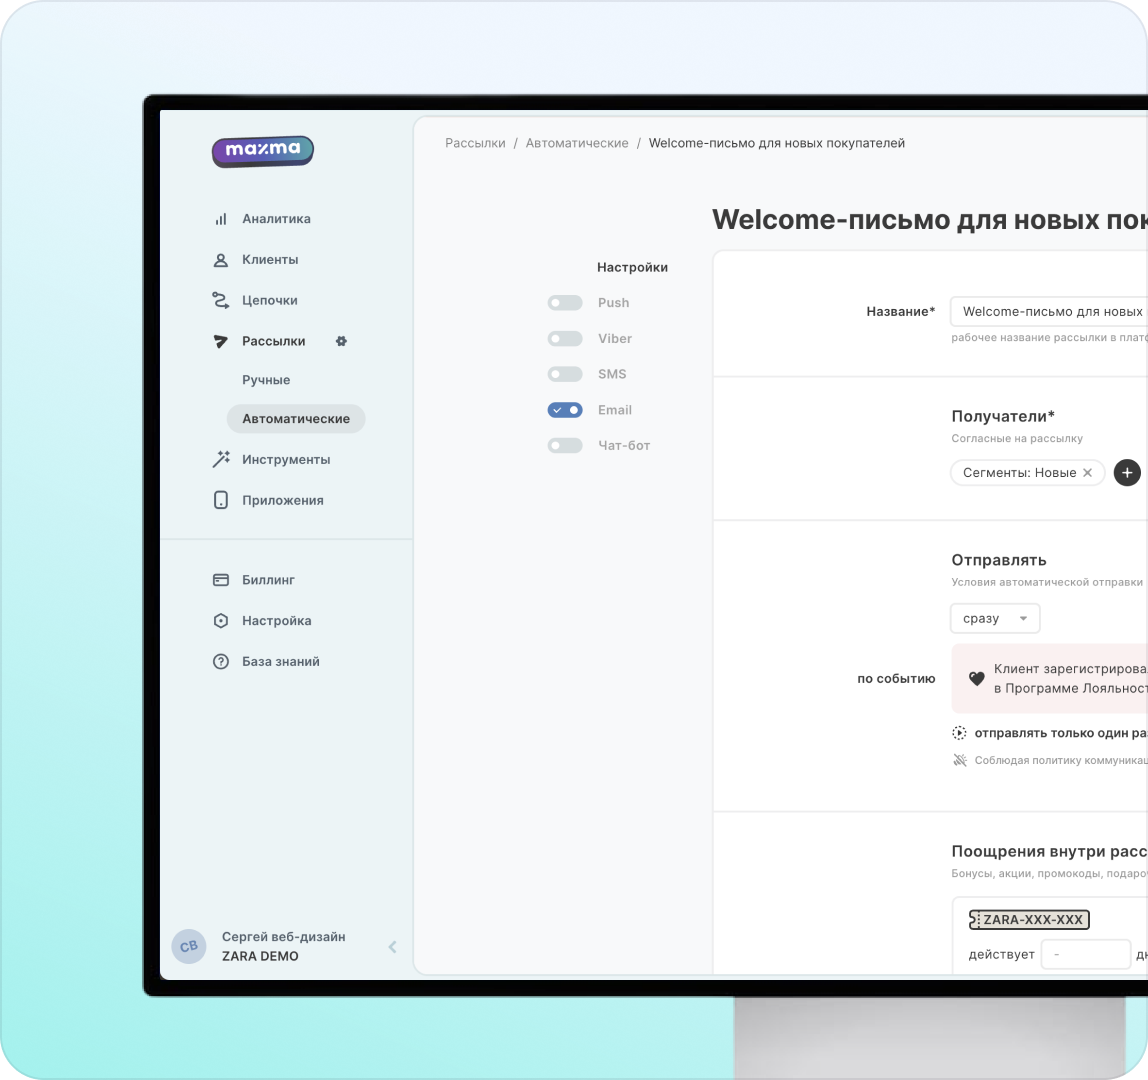
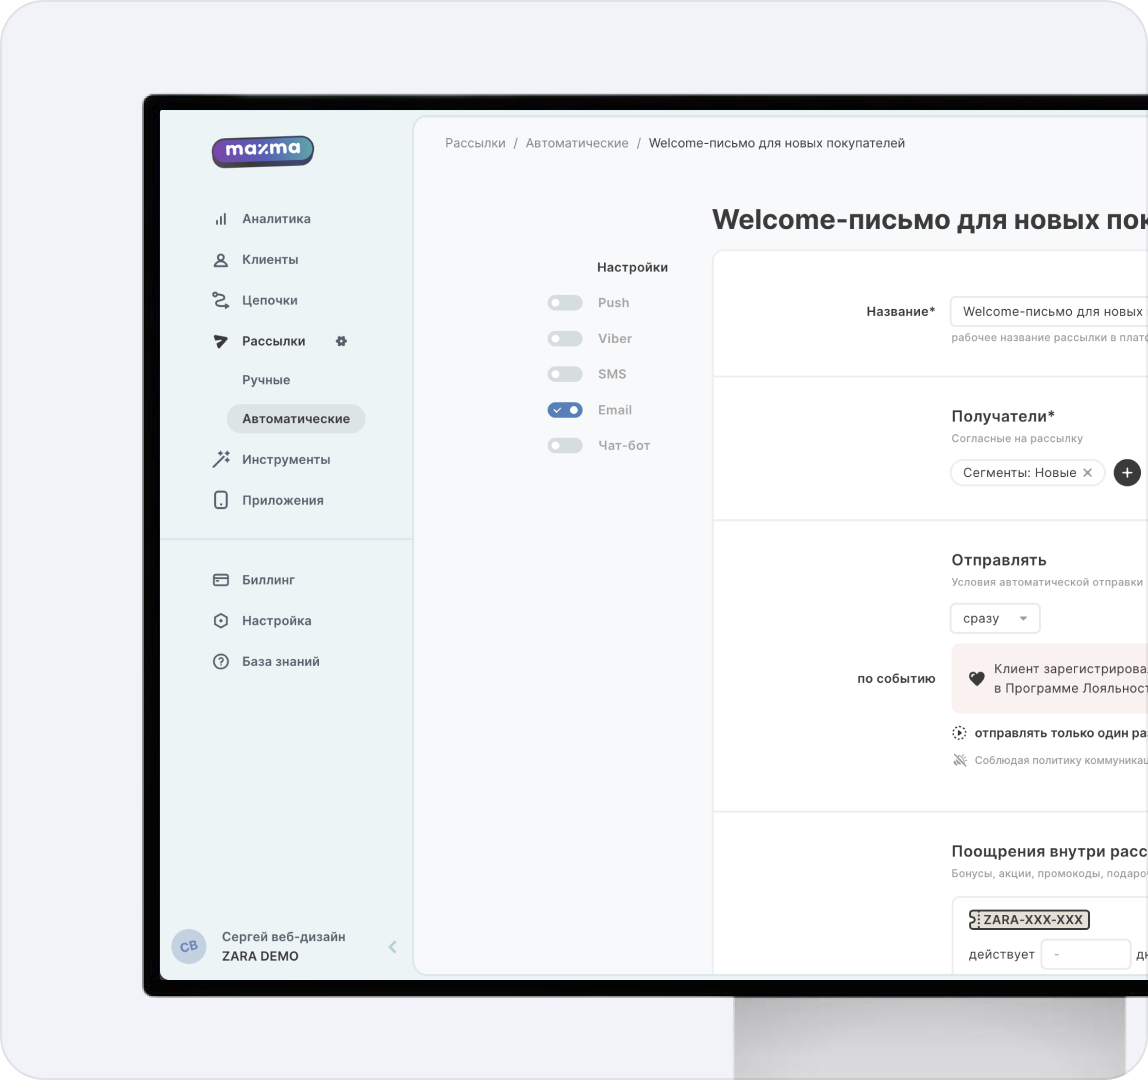
Sync «Рассылки» with the updated mockup
New hero laptop with the mailing list on screen (glare layer dropped),
«С модулем Рассылки вы растите» heading, grey trigger and segment cards,
refreshed Telegram and Push cards, the lead form alone and centred, footer
moved up to match.

Changed region(s): [[0.0, 0.2444, 0.6402, 1.0], [0.9756, 0.9167, 1.0, 1.0]]

diff --git a/css/communications.css b/css/communications.css
@@ -2,21 +2,19 @@
    MAXMA — «Рассылки» (module page), loaded after styles.css
    Figma: J5O8dq0z1hB7ba68lMvQYn · frame «Рассылки — UI / 1440» 20:1467
    Same fixed 1440 stage as the main page: every block sits at its Figma
-   y inside the frame. The mockup frame crops the footer; the stage runs
-   on to show it whole.
+   y inside the frame. The mockup frame (6506 tall) crops the footer; the
+   stage runs on to show it whole.
    ===================================================================== */
 
-.stage--comm{height:7004px}
+.stage--comm{height:6840px}
 
 /* =====================================================================
-   HERO · 20:1480
+   HERO · 75:1906
    ===================================================================== */
 .chero{left:0;top:80px;width:1440px;height:795px}
 .chero>*{position:absolute}
 /* the green card runs on under the metrics, fading into the page */
 .chero__bg{left:20px;top:0;width:1400px;height:1148px;border-radius:24px;background:linear-gradient(180deg,#e1efe1 0%,#fff 100%)}
-.chero__glare{left:20px;top:0;width:1420px;height:886px;border-radius:24px;overflow:hidden;mix-blend-mode:overlay;pointer-events:none}
-.chero__glare img{position:absolute;left:-.5%;top:-14.8%;width:126.11%;height:114.8%;max-width:none}
 .chero__icon{left:80px;top:194px;width:71px;height:62px}
 
 .chero__copy{left:80px;top:288px;width:640px;display:flex;flex-direction:column;align-items:flex-start;gap:32px}
@@ -29,15 +27,16 @@
 .chero__sub{width:650px;font-size:16px;line-height:22px;opacity:.6}
 .chero__cta{width:266px;height:56px;padding:0;border:0;border-radius:100px}
 
-/* laptop · image 614, cropped by its box; the dashboard sits on its screen */
-.chero__laptop{left:620px;top:7px;width:800px;height:879px;overflow:hidden;pointer-events:none}
-.chero__laptop img{position:absolute;left:-20.54%;top:0;width:168.68%;height:100%;max-width:none}
+/* laptop · image 646, cropped by its box at the card edge; the mailing
+   list sits on its screen */
+.chero__laptop{left:687px;top:103px;width:733px;height:678px;overflow:hidden;pointer-events:none}
+.chero__laptop img{position:absolute;left:0;top:-.01%;width:152.11%;height:100.02%;max-width:none}
 .chero__screen{
-  left:781px;top:168px;width:639px;height:461px;overflow:hidden;
-  border:1px solid rgba(25,9,40,.1);border-radius:11px 0 0 1px;
-  box-shadow:0 49.458px 65.284px rgba(0,0,0,.03);
+  left:801px;top:128px;width:619px;height:577px;overflow:hidden;
+  border-radius:10px 0 0 1.249px;
+  box-shadow:0 61.764px 81.528px rgba(0,0,0,.03);
 }
-.chero__screen img{position:absolute;left:-.1%;top:-.68%;width:128.71%;height:119.1%;max-width:none}
+.chero__screen img{position:absolute;left:-.2%;top:-.17%;width:149.29%;height:100.17%;max-width:none}
 
 /* =====================================================================
    METRICS · 20:1492
@@ -75,8 +74,10 @@
 .csteps__head{display:flex;flex-direction:column;gap:16px;color:var(--ink)}
 .csteps__sub{width:426px;font-size:15px;line-height:22px;opacity:.6}
 .csteps__list--seg{width:539px}
-.csteps__card{position:relative;flex:1 1 0;min-width:0;height:540px}
-.csteps__card--seg{background:linear-gradient(0deg,#edf1ff 0%,#e1c9ff 100%)}
+/* one-line descriptions here: the open step keeps a single 22px line, so
+   the lists sit where the mockup has them (247px into the column) */
+.csteps .why-item.is-active .why-item__desc{height:22px}
+.csteps__card{position:relative;flex:1 1 0;min-width:0;height:540px;background:var(--surface)}
 
 /* =====================================================================
    CASES · 59:938 — the main page's carousel, without the filter tabs
@@ -111,23 +112,13 @@
 .cbundle__btn:hover img{transform:translate(2px,-2px)}
 
 /* =====================================================================
-   LEAD FORM · 59:1054
-   Two equal columns: what happens next, and the main page's form.
-   The mockup sets the left column in white / #d5d5d5 on the white page
-   (copied over from a dark block), so the heading doesn't show; here it
-   is in the page ink at the same sizes.
+   LEAD FORM · 59:1054 — the main page's form, centred, 70px under the
+   CDP block (72:802 stacks block, form and footer 70px apart)
    ===================================================================== */
-.clead{left:0;top:5615.05px;width:1440px;height:526.34px;padding:0 138px;display:flex;align-items:center;gap:60px}
-.clead .lead__form{position:static;flex:1 1 0;min-width:0;width:auto}
-
-.clead__next{flex:1 1 0;min-width:0;display:flex;flex-direction:column;gap:20px;color:var(--ink)}
-.clead__next-title{font-weight:500;font-size:30px;line-height:1.3}
-.clead__steps{margin:0;padding:0;list-style:none;display:flex;flex-direction:column;gap:20px}
-.clead__steps li{display:flex;align-items:flex-start;gap:14px;font-size:16px;line-height:1.4}
-.clead__steps li>span:last-child{flex:1;min-width:0;padding-top:4px;opacity:.6}
-.clead__num{width:30px;height:30px;flex:none;display:flex;align-items:center;justify-content:center;border-radius:100px;background:var(--surface);font-weight:500;font-size:14px;line-height:1.3}
+.clead{left:0;top:5525.05px;width:1440px;display:flex;justify-content:center}
+.clead .lead__form{position:static;width:456px}
 
 /* =====================================================================
    FOOTER · 59:1115
    ===================================================================== */
-.ftr--comm{top:6301.39px}
+.ftr--comm{top:6137.39px}

diff --git a/communications.html b/communications.html
@@ -97,25 +97,24 @@
 <div class="page">
 <div class="stage stage--comm" id="stage">
 
-  <!-- ============ HERO · 20:1480 ============ -->
-  <section class="chero" data-node="20:1480">
-    <div class="chero__bg" data-node="20:1481"></div>
-    <div class="chero__glare" data-node="20:1482"><img src="assets/img/comm-hero-glare.jpg" alt=""></div>
-    <img class="chero__icon" src="assets/img/icon-megaphone.png" alt="" width="71" height="62" data-node="20:1483">
-    <div class="chero__copy" data-node="20:1484">
+  <!-- ============ HERO · 75:1906 ============ -->
+  <section class="chero" data-node="75:1906">
+    <div class="chero__bg" data-node="75:1907"></div>
+    <img class="chero__icon" src="assets/img/icon-megaphone.png" alt="" width="71" height="62" data-node="75:1908">
+    <div class="chero__copy" data-node="75:1909">
       <div class="chero__head">
-        <h1 class="chero__title" data-node="20:1486">Рассылки, которые<br>окупаются</h1>
-        <p class="chero__sub" data-node="20:1487">Все каналы и персональные сценарии в одном окне<br>на данных о каждом клиенте</p>
+        <h1 class="chero__title" data-node="75:1911">Рассылки, которые<br>окупаются</h1>
+        <p class="chero__sub" data-node="75:1912">Все каналы и персональные сценарии в одном окне<br>на данных о каждом клиенте</p>
       </div>
-      <a class="btn btn--grad chero__cta" href="#lead" data-node="20:1488">Запросить демо</a>
+      <a class="btn btn--grad chero__cta" href="#lead" data-node="75:1913">Запросить демо</a>
     </div>
-    <div class="chero__laptop" data-node="20:1490"><img src="assets/img/comm-hero-laptop.png" alt=""></div>
-    <div class="chero__screen" data-node="20:1491"><img src="assets/img/comm-hero-screen.jpg" alt="Сводка в кабинете MAXMA"></div>
+    <div class="chero__laptop" data-node="75:1916"><img src="assets/img/comm-hero-laptop.webp" alt=""></div>
+    <div class="chero__screen" data-node="75:1917"><img src="assets/img/comm-hero-screen.jpg" alt="Автоматические рассылки в кабинете MAXMA"></div>
   </section>
 
   <!-- ============ METRICS · 20:1492 ============ -->
   <section class="cmetrics" data-node="20:1492">
-    <h2 class="sec-title cmetrics__title" data-node="20:1493">Что растёт с модулем Рассылки</h2>
+    <h2 class="sec-title cmetrics__title" data-node="75:1884">С модулем Рассылки <span class="grad">вы растите</span></h2>
     <div class="cmetrics__row" data-node="20:1494">
       <div class="cmetric"><p class="cmetric__value">+25%</p><p class="cmetric__label">open rate рассылок</p></div>
       <div class="cmetric"><p class="cmetric__value">×1,8</p><p class="cmetric__label">повторные заказы<br>от триггеров</p></div>
@@ -281,15 +280,6 @@
 
   <!-- ============ LEAD FORM · 59:1054 ============ -->
   <section class="clead" id="lead" data-node="59:1054">
-    <div class="clead__next" data-node="62:1219">
-      <p class="clead__next-title" data-node="62:1220">Что будет после заявки</p>
-      <ol class="clead__steps">
-        <li><span class="clead__num">1</span><span>Перезвоним в течение рабочего дня и уточним задачи</span></li>
-        <li><span class="clead__num">2</span><span>Покажем демо модуля на ваших сценариях</span></li>
-        <li><span class="clead__num">3</span><span>Рассчитаем ожидаемый эффект и стоимость для вашей сети</span></li>
-      </ol>
-    </div>
-
     <form class="lead__form" id="leadForm" novalidate data-node="59:1055">
       <div class="lead__head">
         <p class="lead__title">Оставить заявку</p>

diff --git a/ASSETS.md b/ASSETS.md
@@ -44,8 +44,7 @@
 | Файл | Node ID | Размер | Где |
 |---|---|---|---|
 | `icon-megaphone.png`, `icon-audience.png` | спрайт `Icon pack` | 71 × 62, 52 × 42 | Стикер на первом экране и пара «мегафон + аудитория» в «Работает мощнее в связке»; вырезаны из прозрачного спрайта |
-| `comm-hero-glare.jpg` | `20:1482` | — | Блики на зелёной подложке первого экрана (`mix-blend-mode: overlay`) |
-| `comm-hero-laptop.png`, `comm-hero-screen.jpg` | `20:1490`, `20:1491` | — | Ноутбук и дашборд на нём; кроп задаётся в CSS, как в макете |
+| `comm-hero-laptop.webp`, `comm-hero-screen.jpg` | `75:1916`, `75:1917` | — | Ноутбук и список рассылок на его экране; кроп задаётся в CSS, как в макете |
 | `comm-channels.png` | `62:4874` | 136 × 38 | Четыре иконки каналов над «Все коммуникации в одном окне» |
 | `comm-telegram/cascade/push.png` | `59:574`, `59:599`, `59:579` | 456 × 540 | Три карточки каналов целиком |
 | `trigger-1.png` … `trigger-3.png` | `59:857` | 574 × 540 | Картинка у «Триггерных сценариев», по одной на пункт; в макете есть только первая |

diff --git a/README.md b/README.md
@@ -115,6 +115,3 @@ node ID в [ASSETS.md](ASSETS.md).
 - `platform-2` в макете обрезана краем фрейма, поэтому целиком её из Figma
   не выгрузить: карточка собрана по слоям `14:314` в HTML и снята
   в PNG @2x (уведомление — SF Pro, как в макете).
-- Левая колонка у формы на странице «Рассылки» (`62:1219`) в макете
-  набрана белым и #d5d5d5 по белому — заголовок не виден. В прототипе
-  она в цветах страницы при тех же размерах.
